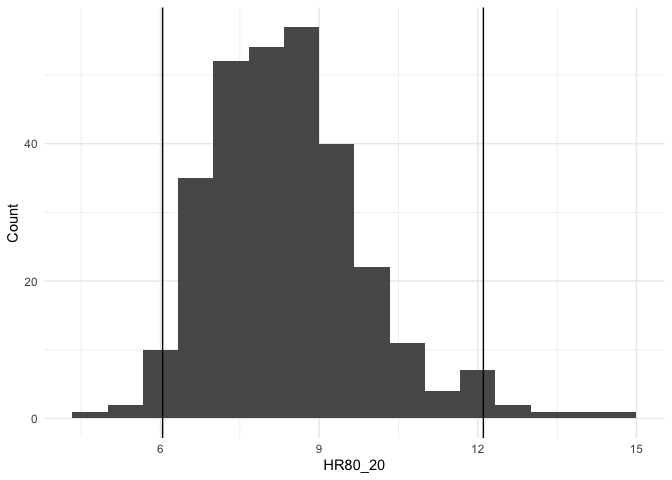
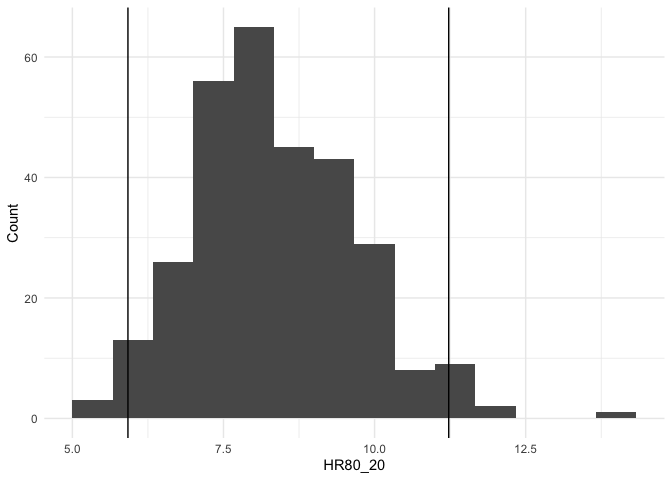
update readme

diff --git a/README.md b/README.md
@@ -52,7 +52,7 @@ devtools::build("hazrd")
 You can then install the `.tar.gz` with `install.packages` in `R`:
 
 ``` r
-install.packages("hazrd_0.1.0.tar.gz", repos = NULL, type="source")
+install.packages("hazrd-0.1.0.tar.gz", repos = NULL, type="source")
 ```
 
 ## Getting Started
@@ -95,9 +95,9 @@ str(HR80_20)
     ## List of 5
     ##  $ index    : chr "HR80_20"
     ##  $ value    : num 8.17
-    ##  $ conf.low : num 6.04
-    ##  $ conf.high: num 12.1
-    ##  $ iters    : num [1:300, 1] 7.9 5.74 7.28 7.17 8.95 ...
+    ##  $ conf.low : num 5.92
+    ##  $ conf.high: num 11.2
+    ##  $ iters    : num [1:300, 1] 8.7 7.27 6.45 6.65 9.1 ...
 
 Each `get_` function also returns the output from each bootstrap
 iteration in `$iters` so that the user can plot these or calculate their
@@ -123,12 +123,13 @@ OR80_20 = get_or(test_data, or_age = 70, CI = TRUE, boot = 300)
 str(OR80_20)
 ```
 
-    ## List of 5
+    ## List of 6
     ##  $ index    : chr "OR80_20"
     ##  $ value    : num 8.52
-    ##  $ conf.low : num 4.93
-    ##  $ conf.high: num 17
-    ##  $ iters    : num [1:300, 1] 9.37 7.06 4.6 12.74 11.28 ...
+    ##  $ conf.low : num 5.21
+    ##  $ conf.high: num 18.1
+    ##  $ age      : num 70
+    ##  $ iters    : num [1:300, 1] 7.62 5.77 8.01 6.41 15.38 ...
 
 ``` r
 ggplot(mapping = aes(x = OR80_20$iters)) +
@@ -153,9 +154,9 @@ str(c_index)
     ## List of 5
     ##  $ index    : chr "C_Index"
     ##  $ value    : num 0.708
-    ##  $ conf.low : num 0.681
-    ##  $ conf.high: num 0.734
-    ##  $ iters    : num [1:300, 1] 0.707 0.707 0.717 0.694 0.705 ...
+    ##  $ conf.low : num 0.682
+    ##  $ conf.high: num 0.732
+    ##  $ iters    : num [1:300, 1] 0.694 0.702 0.707 0.699 0.706 ...
 
 Finally, plot the Kaplan-Meier curves with confidence intervals for
 centiles of interest.
